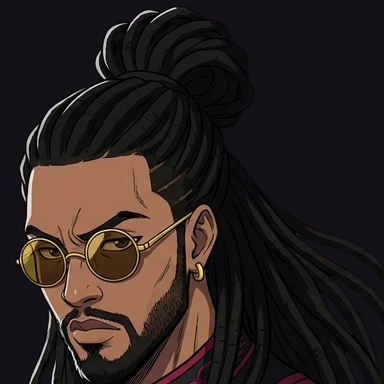
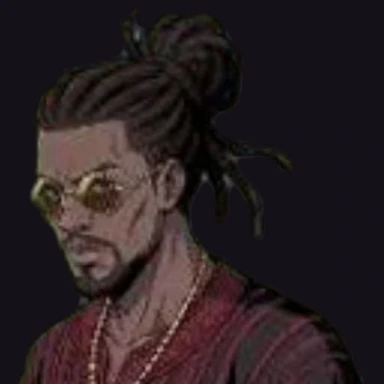
Agyekum portrait from the correct sheet; Frenzy extra hits animated with each hero's strike poses and projectiles
Claude-Session: https://claude.ai/code/session_01KCvu1msLSb5oPSxPwoexAA

diff --git a/squads/game.js b/squads/game.js
@@ -1,9 +1,9 @@
 // Gyeaman Squads: Akan squad battler, chapter 1.
 // Battles are turn based on a speed turn order (Dislyte style): every hero picks Basic, Skill (cooldown) or Ultimate (energy)
 // and a target; enemies show their next move. Big moves get impact frames, small ones stay quiet.
-import { KF } from './kf.js?v=20261022j';
-import { HEROES, MONS, STAGES, REGIONS, DIFF, RARITY, STARTERS, SKILL_MAX, skillCost, xpNeed, STAR_SHARDS, LOCKED_CHAPTERS, PULL_COST, PULL10_COST, PITY, PULL_RATES, CLASSES, GROWTH, SPELLS, ULT_DMG, ARENA, MOVE_DMG, TALENTS } from './data.js?v=20261022j';
-import { drawAdinkra, adinkraPath, adinkraSvg, ADINKRA } from './adinkra.js?v=20261022j';
+import { KF } from './kf.js?v=20261022k';
+import { HEROES, MONS, STAGES, REGIONS, DIFF, RARITY, STARTERS, SKILL_MAX, skillCost, xpNeed, STAR_SHARDS, LOCKED_CHAPTERS, PULL_COST, PULL10_COST, PITY, PULL_RATES, CLASSES, GROWTH, SPELLS, ULT_DMG, ARENA, MOVE_DMG, TALENTS } from './data.js?v=20261022k';
+import { drawAdinkra, adinkraPath, adinkraSvg, ADINKRA } from './adinkra.js?v=20261022k';
 
 const ROOT = /\/squads\/?$|\/squads\/index\.html$/.test(location.pathname) ? '../assets/' : 'assets/';
 const A = ROOT + 'sq/';
@@ -62,7 +62,7 @@ const SFX = {
 
 // ---------------- images ----------------
 const IM = {};
-const AV = '?v=20261022j';
+const AV = '?v=20261022k';
 // stale-build guard: phones keep old pages/modules around; if the deployed version.json is newer, reload once onto it
 (async function checkBuild() {
   const mine = AV.slice(3);
@@ -1175,12 +1175,20 @@ const BONUS_SHOT = { obiri: 'arrow', kuukua: 'spear', kome: 'fire', dufie: 'dagg
 async function bonusHits(u, f, m) {
   const tecHit = Math.random() < (u.tec || 0) / ((u.tec || 0) + 250) ? 1 : 0, n = (u.fz || 0) + tecHit; if (!n || !f.alive) return;
   if (u.fz) float(u, `FRENZY ×${u.fz}`, '#ffd23c', .9);
+  // strike poses from the hero's own basic attack, alternated, each with its own projectile or slash
+  const poses = KF[u.id] && SEQ[u.id] && SEQ[u.id].basic ? SEQ[u.id].basic.filter((s) => s.ev && KF[u.id].p[s.p]).map((s) => s.p) : [];
   for (let k = 0; k < n && f.alive; k++) {
     const [x0, y0] = pos(u), [x, y] = pos(f), kind = BONUS_SHOT[u.id], yy = y - f.h * (.35 + .3 * Math.random());
-    if (kind) { fx('shot', 180, { x0: x0 + u.w * .3, y0: y0 - u.h * .6, x1: x, y1: yy, kind }); await wait(150); }
-    else { fx('arc', 220, { x, y: yy, r: f.h * .5, c: PH_COL[u.id] || '#fff', dir: k % 2 ? 1 : -1 }); await wait(110); }
-    hit(u, f, .3 * m, { color: PH_COL[u.id] }); await wait(90);
+    if (poses.length) { u.kf = poses[k % poses.length]; u.kfA = null; u.kfPh = true; u.phHue = PH_HUE[u.id] ?? 185; }
+    if (kind) fx('shot', 180, { x0: x0 + u.w * .3, y0: y0 - u.h * .6, x1: x, y1: yy, kind });
+    else if (u.id === 'bayi') redSlash(u, f, { ms: 300, flip: k % 2, rot: k % 2 ? -.3 : .3 });
+    else if (u.id === 'blay') sproj(u, k % 4, { s: .8, ms: 300 });
+    else if (u.id === 'owureku') axeThrow(u, f, { ms: 300 });
+    else fx('arc', 240, { x, y: yy, r: f.h * .65, c: PH_COL[u.id] || '#fff', dir: k % 2 ? 1 : -1, big: 1 });
+    await wait(kind || ['bayi', 'blay', 'owureku'].includes(u.id) ? 180 : 110);
+    fx('star', 200, { x, y: yy, r: f.h * .35, c: PH_COL[u.id] || '#fff' }); hit(u, f, .3 * m, { color: PH_COL[u.id] }); await wait(110);
   }
+  kfEnd(u);
 }
 async function doHero(u, i) {
   const f = B.foe, sk = u.sk || SAVE.heroes[u.id].sk, sid = i === 1 || i === 2 ? u.spells[i - 1] : null, S = sid && SPELLS[sid];
@@ -1602,4 +1610,4 @@ function drawFx(g, f) {
 
 // ---------------- boot ----------------
 route();
-window.__sq = { cinema, cinemaMove, pool: (h) => HEROES[h].pool, get B() { return B; }, get SAVE() { return SAVE; }, battle, route, arenaBattle, ARENA, MM, renderAct: () => B && B.cur && renderAct(B.cur), ratio: (i, d) => heroPower(SAVE.squad[0]) / enemyPower(STAGES[i], DIFF.find((x) => x.id === d)) };
+window.__sq = { bonus: (u, f, m) => bonusHits(u, f, m), cinema, cinemaMove, pool: (h) => HEROES[h].pool, get B() { return B; }, get SAVE() { return SAVE; }, battle, route, arenaBattle, ARENA, MM, renderAct: () => B && B.cur && renderAct(B.cur), ratio: (i, d) => heroPower(SAVE.squad[0]) / enemyPower(STAGES[i], DIFF.find((x) => x.id === d)) };

diff --git a/squads/index.html b/squads/index.html
@@ -14,10 +14,10 @@
 <link rel="preconnect" href="https://fonts.googleapis.com">
 <link rel="preconnect" href="https://fonts.gstatic.com" crossorigin>
 <link href="https://fonts.googleapis.com/css2?family=Anton&family=Bangers&family=Karla:wght@400;700;800&display=swap" rel="stylesheet">
-<link rel="stylesheet" href="style.css?v=20261022j">
+<link rel="stylesheet" href="style.css?v=20261022k">
 </head>
 <body>
 <div id="app"></div>
-<script type="module" src="game.js?v=20261022j"></script>
+<script type="module" src="game.js?v=20261022k"></script>
 </body>
 </html>
